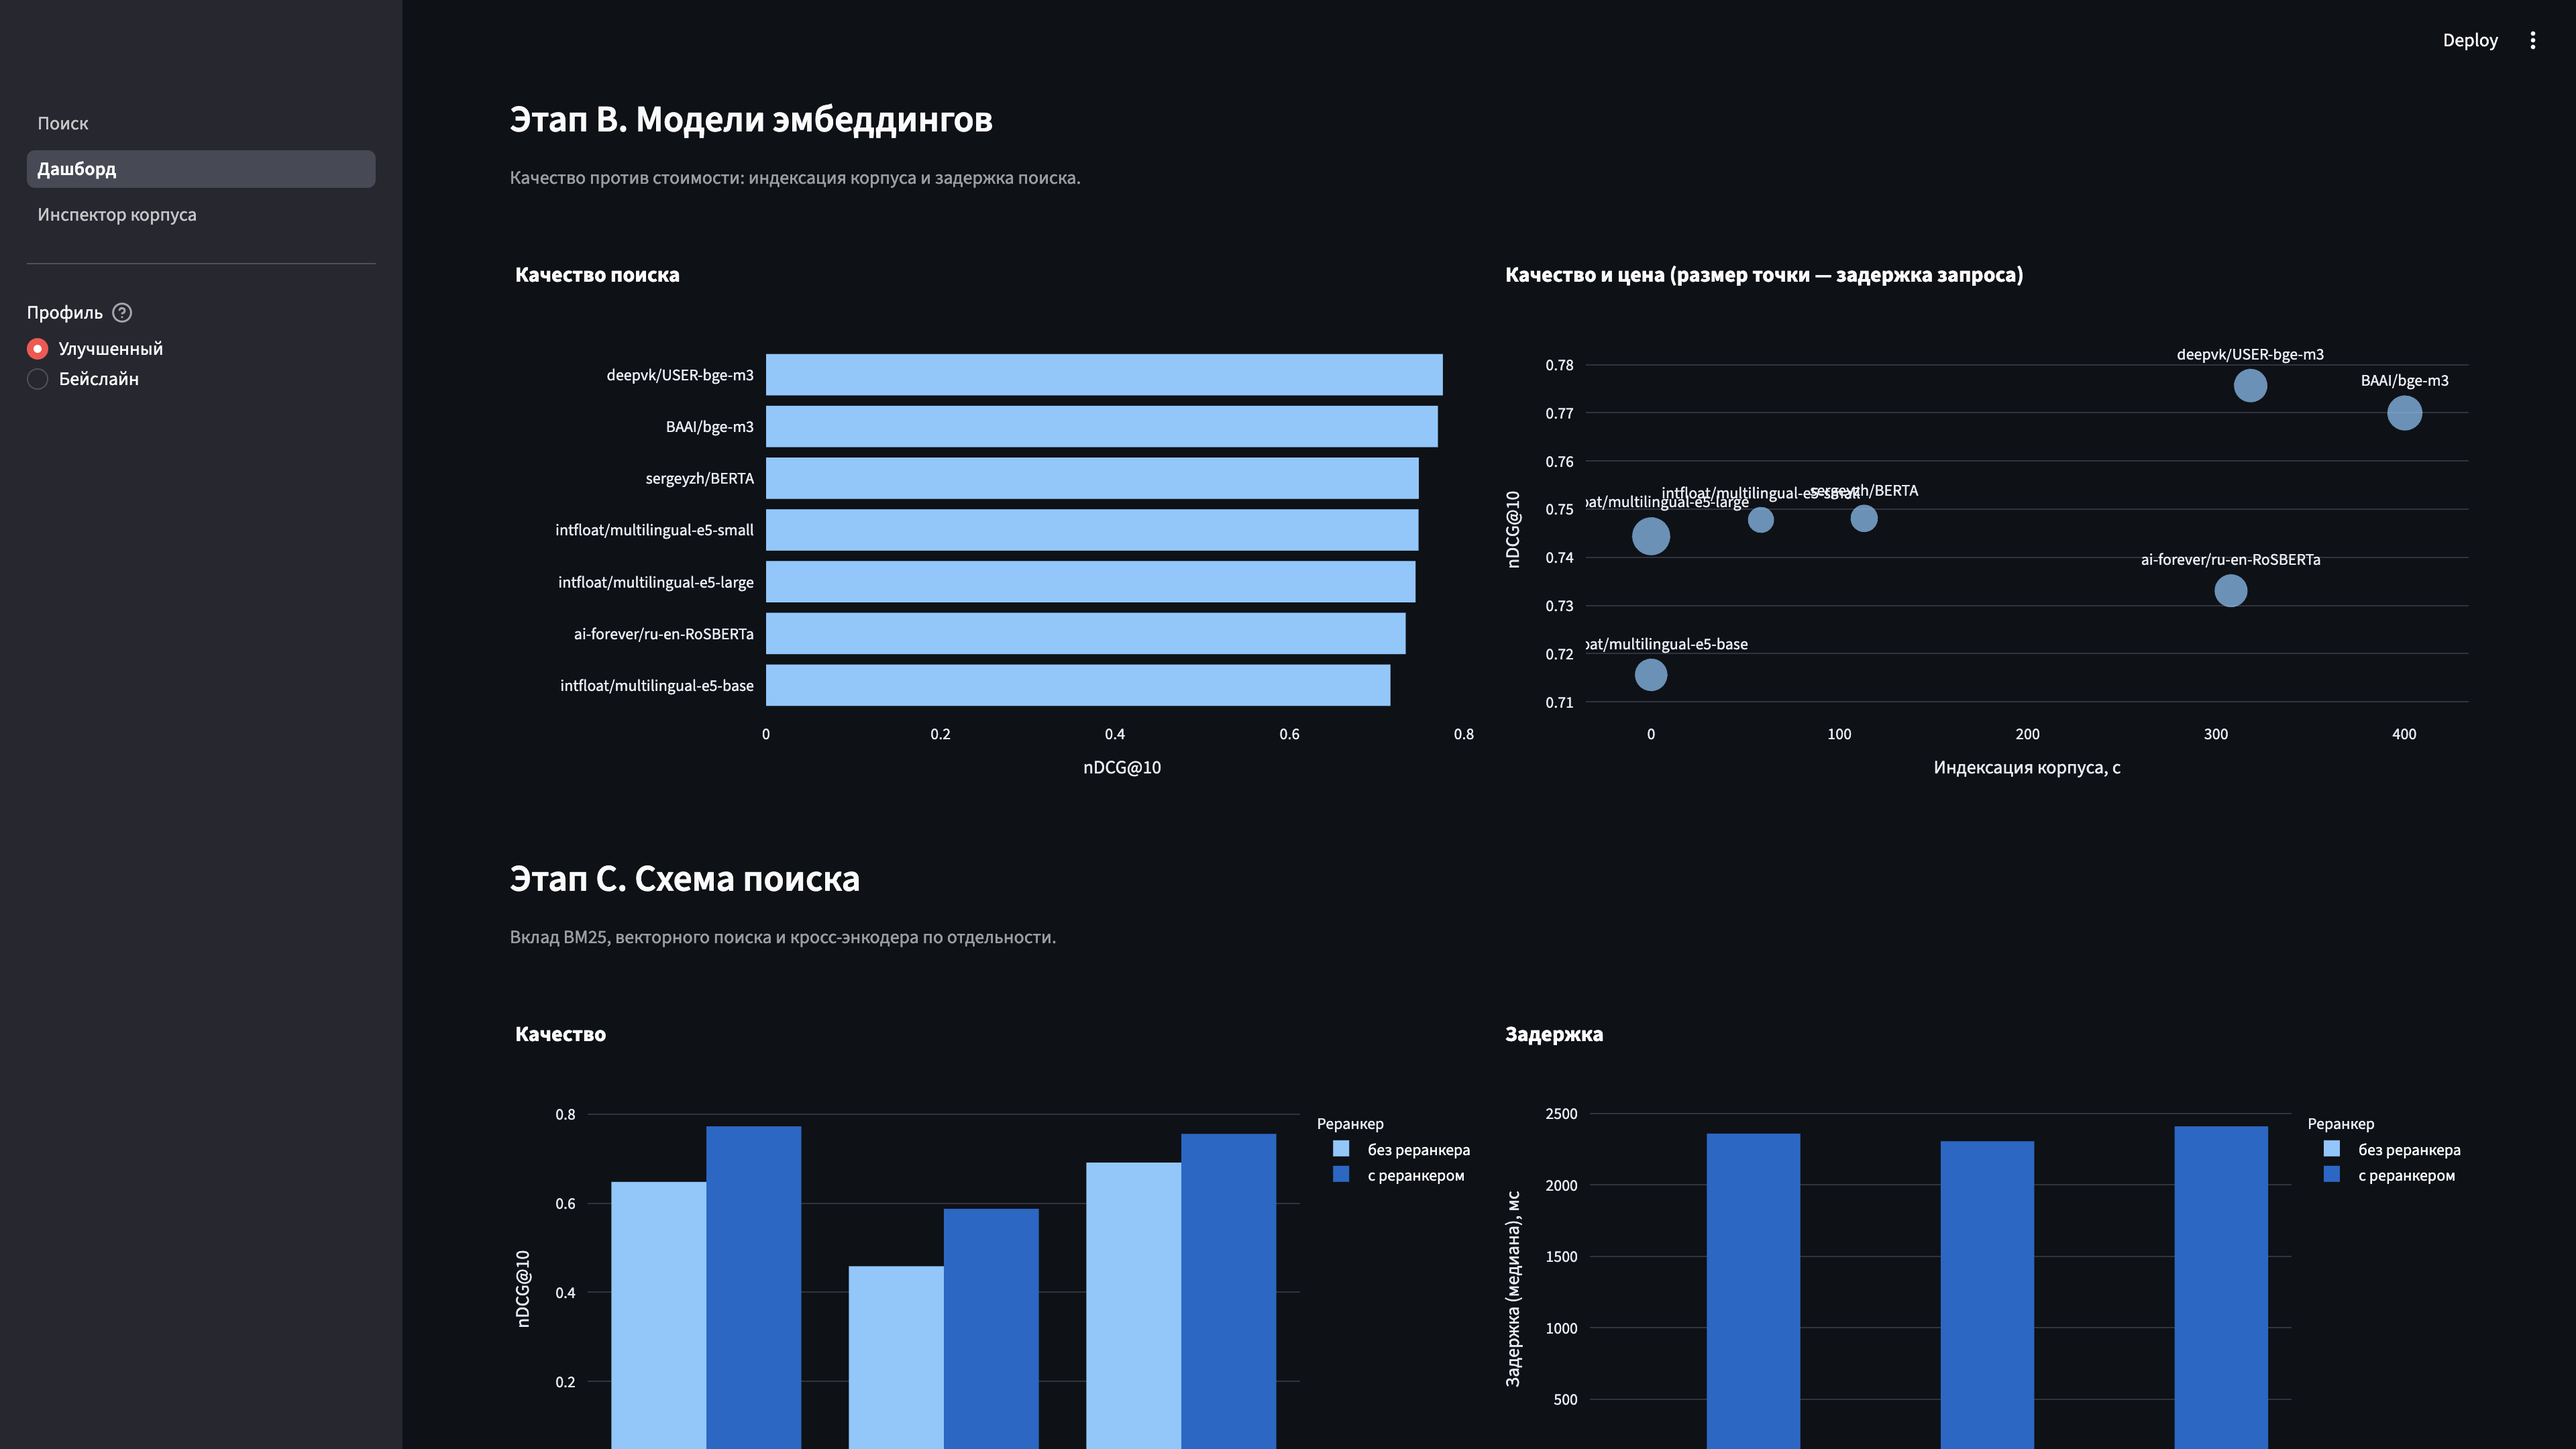
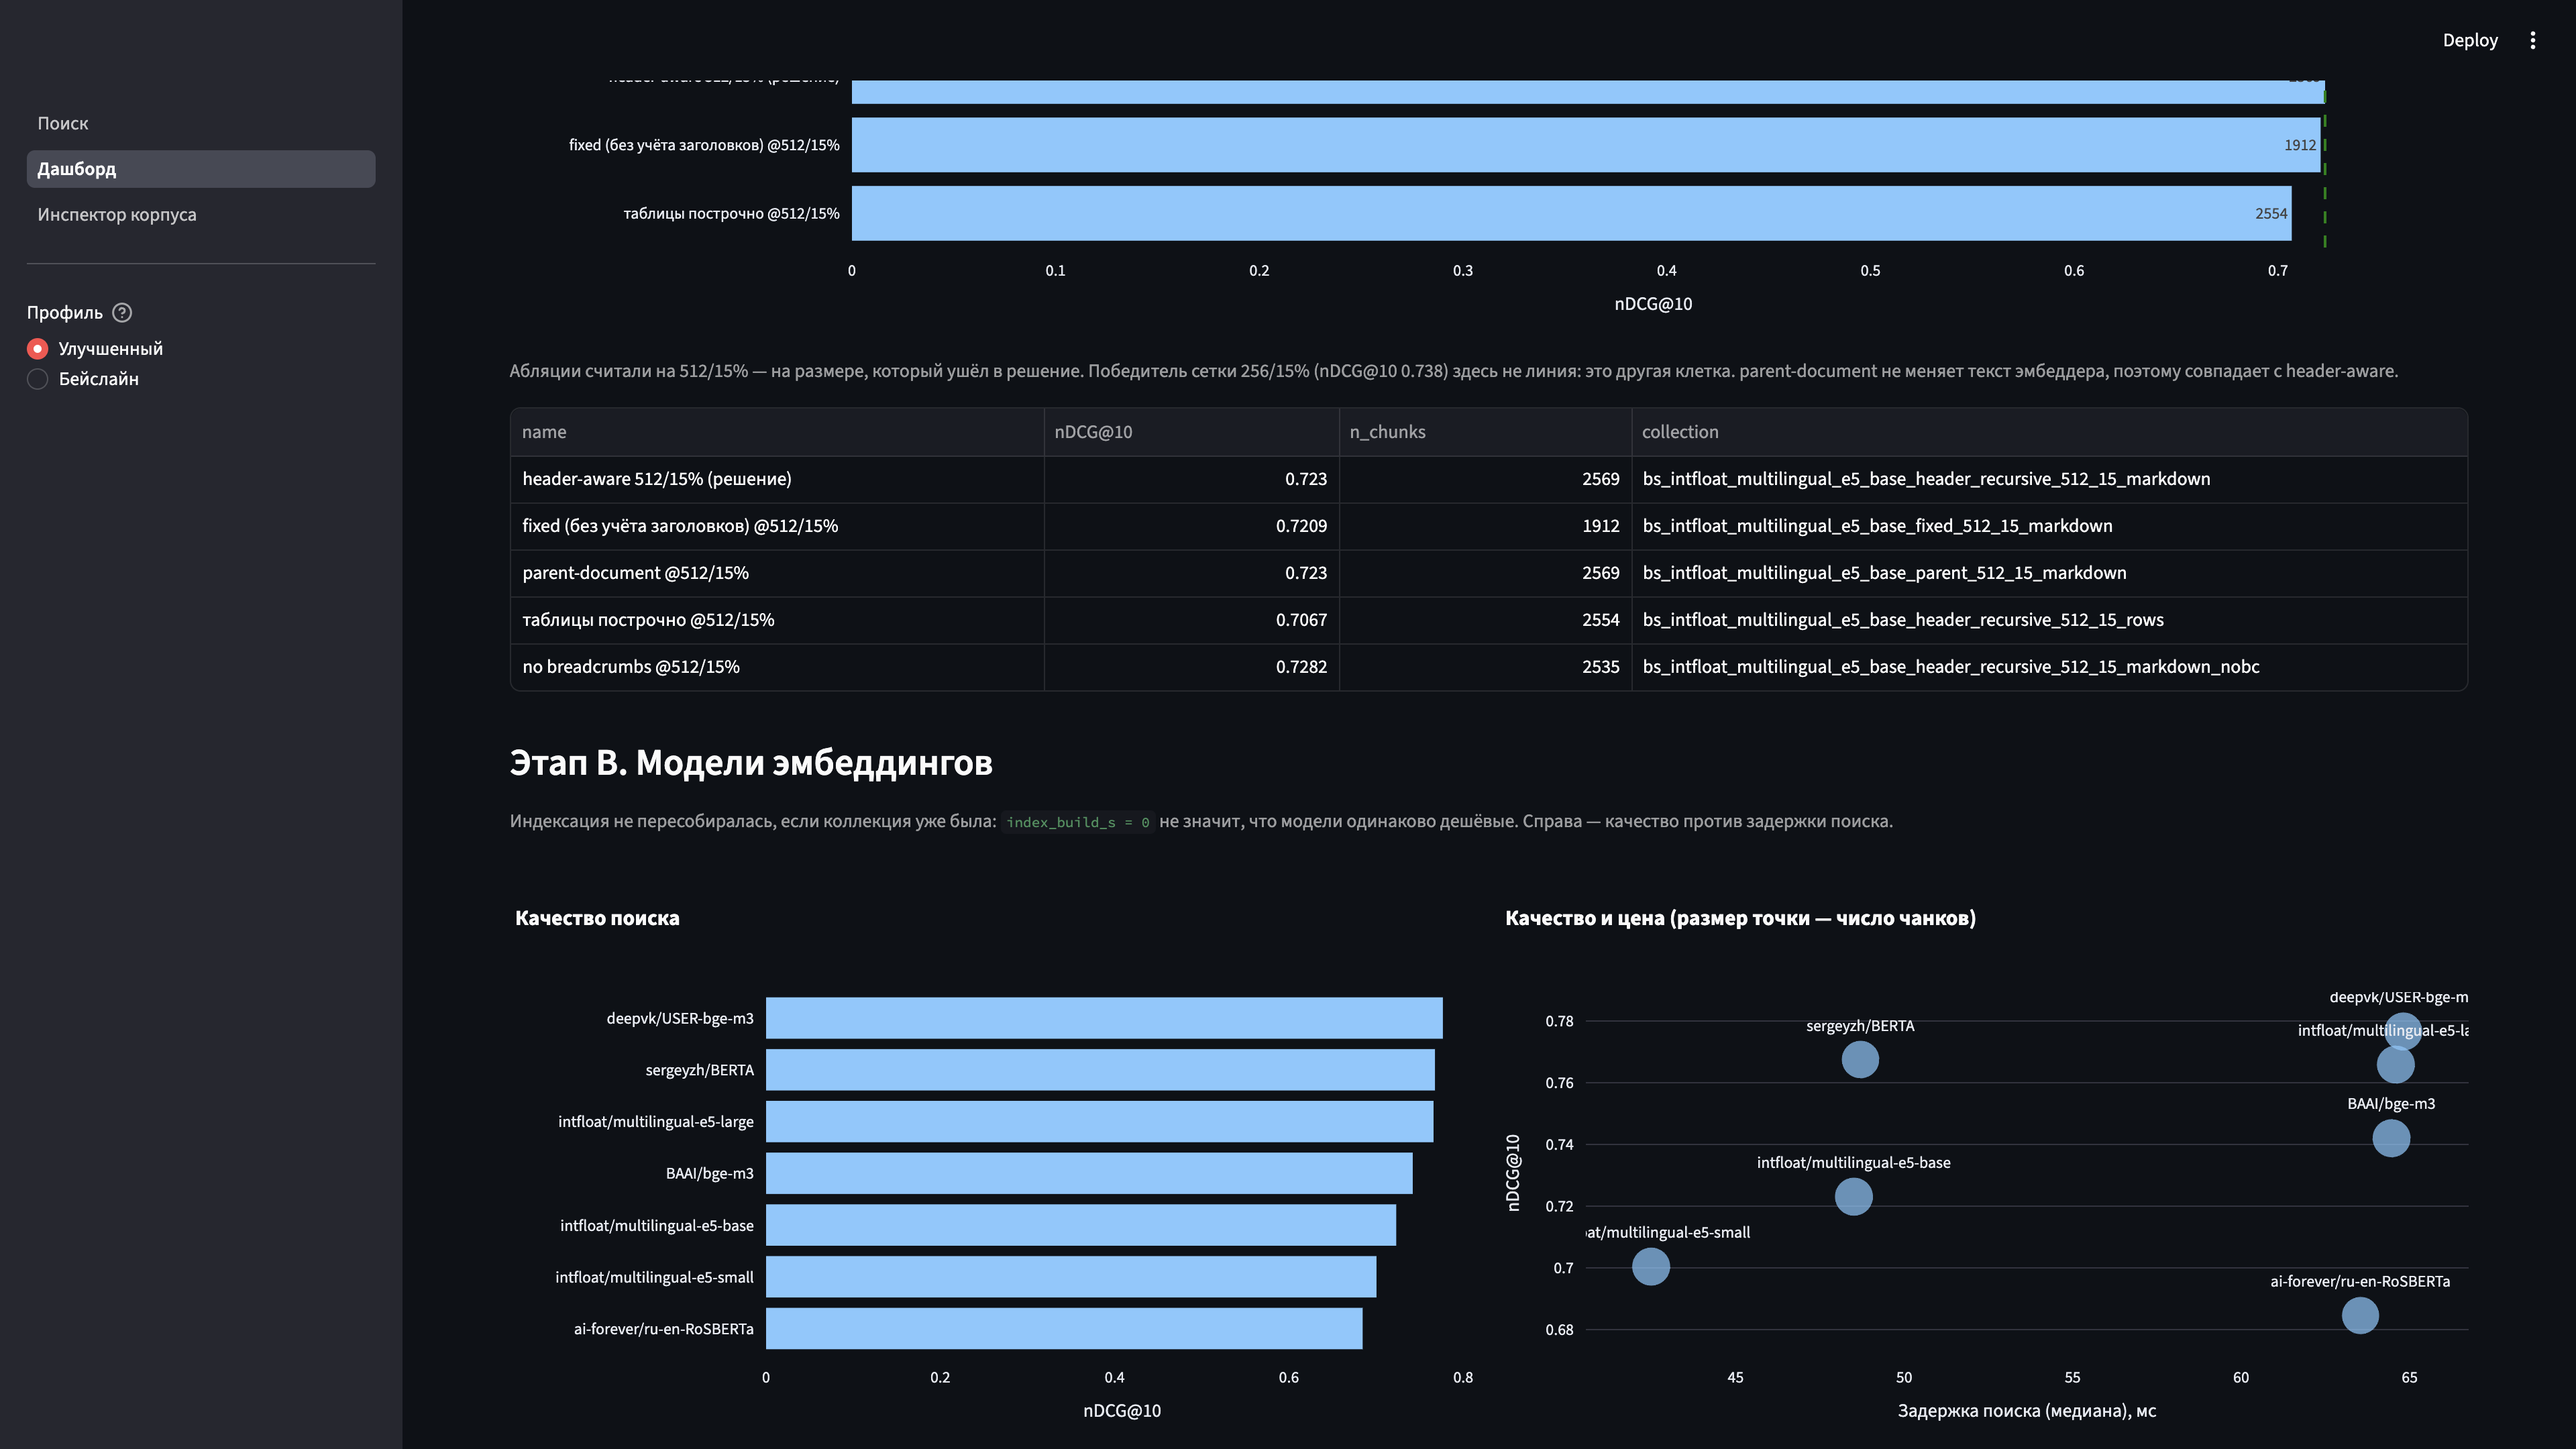
Fix dashboard charts so they match the 76-question protocol.
Ablations now compare against the shipped 512/15% cell, embedding cost uses query latency when indexes were reused, and the empty leftover baseline-vs-ablation plot is gone.

diff --git a/app/pages/2_Дашборд.py b/app/pages/2_Дашборд.py
@@ -74,7 +74,16 @@ def section_chunking(frame: pd.DataFrame, metric: str) -> None:
     if "ablation" in data.columns and data["ablation"].notna().any():
         cols = [c for c in ("name", metric, "n_chunks", "collection") if c in data.columns]
         ablations = data[data["ablation"].notna()][cols].copy()
-        baseline = grid[metric].max() if not grid.empty else None
+        shipped = pd.DataFrame()
+        if not grid.empty and {"chunk_size", "overlap"}.issubset(grid.columns):
+            shipped = grid[(grid["chunk_size"] == 512) & (grid["overlap"].round(2) == 0.15)]
+        if not shipped.empty:
+            ref_row = shipped[cols].copy()
+            ref_row["name"] = "header-aware 512/15% (решение)"
+            ablations = pd.concat([ref_row, ablations], ignore_index=True)
+            reference = float(shipped[metric].iloc[0])
+        else:
+            reference = None
         chart = px.bar(
             ablations.sort_values(metric),
             x=metric,
@@ -84,18 +93,26 @@ def section_chunking(frame: pd.DataFrame, metric: str) -> None:
             labels={"name": "", metric: METRIC_LABELS.get(metric, metric)},
             title="Что будет, если сделать иначе (подпись — число чанков)",
         )
-        if baseline is not None:
+        if reference is not None:
             chart.add_vline(
-                x=baseline,
+                x=reference,
                 line_dash="dash",
-                annotation_text="лучшая конфигурация сетки",
+                annotation_text="решение 512/15%",
                 line_color="green",
             )
+        chart.update_layout(height=360, margin={"l": 10, "r": 10, "t": 40, "b": 10})
         st.plotly_chart(chart, use_container_width=True)
+        grid_best = None
+        if not grid.empty:
+            top = grid.loc[grid[metric].idxmax()]
+            grid_best = (
+                f"{int(top['chunk_size'])}/{int(round(float(top['overlap']) * 100))}%"
+                f" ({METRIC_LABELS.get(metric, metric)} {top[metric]:.3f})"
+            )
         st.caption(
-            "parent-document не меняет текст эмбеддера — только контекст для LLM, "
-            "поэтому retrieval-метрики совпадают с header-aware. "
-            "no breadcrumbs и tables-as-rows считаются на отдельных коллекциях."
+            "Абляции считали на 512/15% — на размере, который ушёл в решение. "
+            + (f"Победитель сетки {grid_best} здесь не линия: это другая клетка. " if grid_best else "")
+            + "parent-document не меняет текст эмбеддера, поэтому совпадает с header-aware."
         )
         if "collection" in ablations.columns:
             st.dataframe(
@@ -110,7 +127,10 @@ def section_embeddings(frame: pd.DataFrame, metric: str) -> None:
     if data.empty:
         return
     st.subheader("Этап B. Модели эмбеддингов")
-    st.caption("Качество против стоимости: индексация корпуса и задержка поиска.")
+    st.caption(
+        "Индексация не пересобиралась, если коллекция уже была: `index_build_s = 0` "
+        "не значит, что модели одинаково дешёвые. Справа — качество против задержки поиска."
+    )
 
     left, right = st.columns(2)
     left.plotly_chart(
@@ -124,17 +144,22 @@ def section_embeddings(frame: pd.DataFrame, metric: str) -> None:
         ),
         use_container_width=True,
     )
+    cost_x = "latency_p50_ms"
+    cost_label = "Задержка поиска (медиана), мс"
+    if "index_build_s" in data.columns and float(data["index_build_s"].fillna(0).max()) > 0:
+        cost_x = "index_build_s"
+        cost_label = "Индексация корпуса, с"
     scatter = px.scatter(
         data,
-        x="index_build_s",
+        x=cost_x,
         y=metric,
         text="name",
-        size="latency_p50_ms",
+        size="n_chunks" if "n_chunks" in data.columns else None,
         labels={
-            "index_build_s": "Индексация корпуса, с",
+            cost_x: cost_label,
             metric: METRIC_LABELS.get(metric, metric),
         },
-        title="Качество и цена (размер точки — задержка запроса)",
+        title="Качество и цена (размер точки — число чанков)",
     )
     scatter.update_traces(textposition="top center")
     right.plotly_chart(scatter, use_container_width=True)
@@ -256,10 +281,10 @@ def section_goldset_expand(frame: pd.DataFrame, metric: str) -> None:
     if data.empty:
         return
     n_manual = int(data["n_manual"].dropna().max()) if "n_manual" in data.columns else 0
-    st.subheader("Расширенный ручной goldset")
+    st.subheader("Бейслайн vs улучшенный")
     st.caption(
-        f"Только каверзные вопросы ({n_manual or 'все ручные'}), без синтетики из чанков. "
-        "Один и тот же набор для бейслайна и улучшенного профиля."
+        f"Те же {n_manual or 76} ручных вопросов, без синтетики. "
+        "Бейслайн — опора C; улучшенный — nobc + таблицы + раскрытие."
     )
     left, right = st.columns(2)
     left.plotly_chart(
@@ -306,45 +331,6 @@ def section_warmup(frame: pd.DataFrame) -> None:
     )
 
 
-def section_baseline_compare(current: pd.DataFrame, metric: str) -> None:
-    old = results_frame("benchmarks_baseline.csv")
-    if old is None or old.empty:
-        return
-    st.subheader("Бейслайн vs пересчёт абляций")
-    st.caption(
-        "В бейслайне parent / rows / no breadcrumbs имели одинаковые метрики — "
-        "они читали одну коллекцию. Справа — отдельные коллекции."
-    )
-    old_ab = old[old.get("ablation").notna()] if "ablation" in old.columns else pd.DataFrame()
-    new_ab = current[current["ablation"].notna()] if "ablation" in current.columns else pd.DataFrame()
-    if old_ab.empty or new_ab.empty or metric not in old_ab.columns:
-        return
-    merged = old_ab[["name", metric]].merge(
-        new_ab[["name", metric, "n_chunks"]],
-        on="name",
-        suffixes=("_бейслайн", "_сейчас"),
-    )
-    long = merged.melt(
-        id_vars="name",
-        value_vars=[f"{metric}_бейслайн", f"{metric}_сейчас"],
-        var_name="набор",
-        value_name=metric,
-    )
-    long["набор"] = long["набор"].str.replace(f"{metric}_", "", regex=False)
-    st.plotly_chart(
-        px.bar(
-            long,
-            x=metric,
-            y="name",
-            color="набор",
-            barmode="group",
-            orientation="h",
-            labels={"name": "", metric: METRIC_LABELS.get(metric, metric)},
-        ),
-        use_container_width=True,
-    )
-
-
 def main() -> None:
     selected_profile()
     st.title("📊 Дашборд экспериментов")
@@ -369,7 +355,6 @@ def main() -> None:
         columns[3].metric("Экспериментов", str(len(frame)))
 
     section_chunking(frame, metric)
-    section_baseline_compare(frame, metric)
     section_embeddings(frame, metric)
     section_retrieval(frame, metric)
     section_improve(frame, metric)
